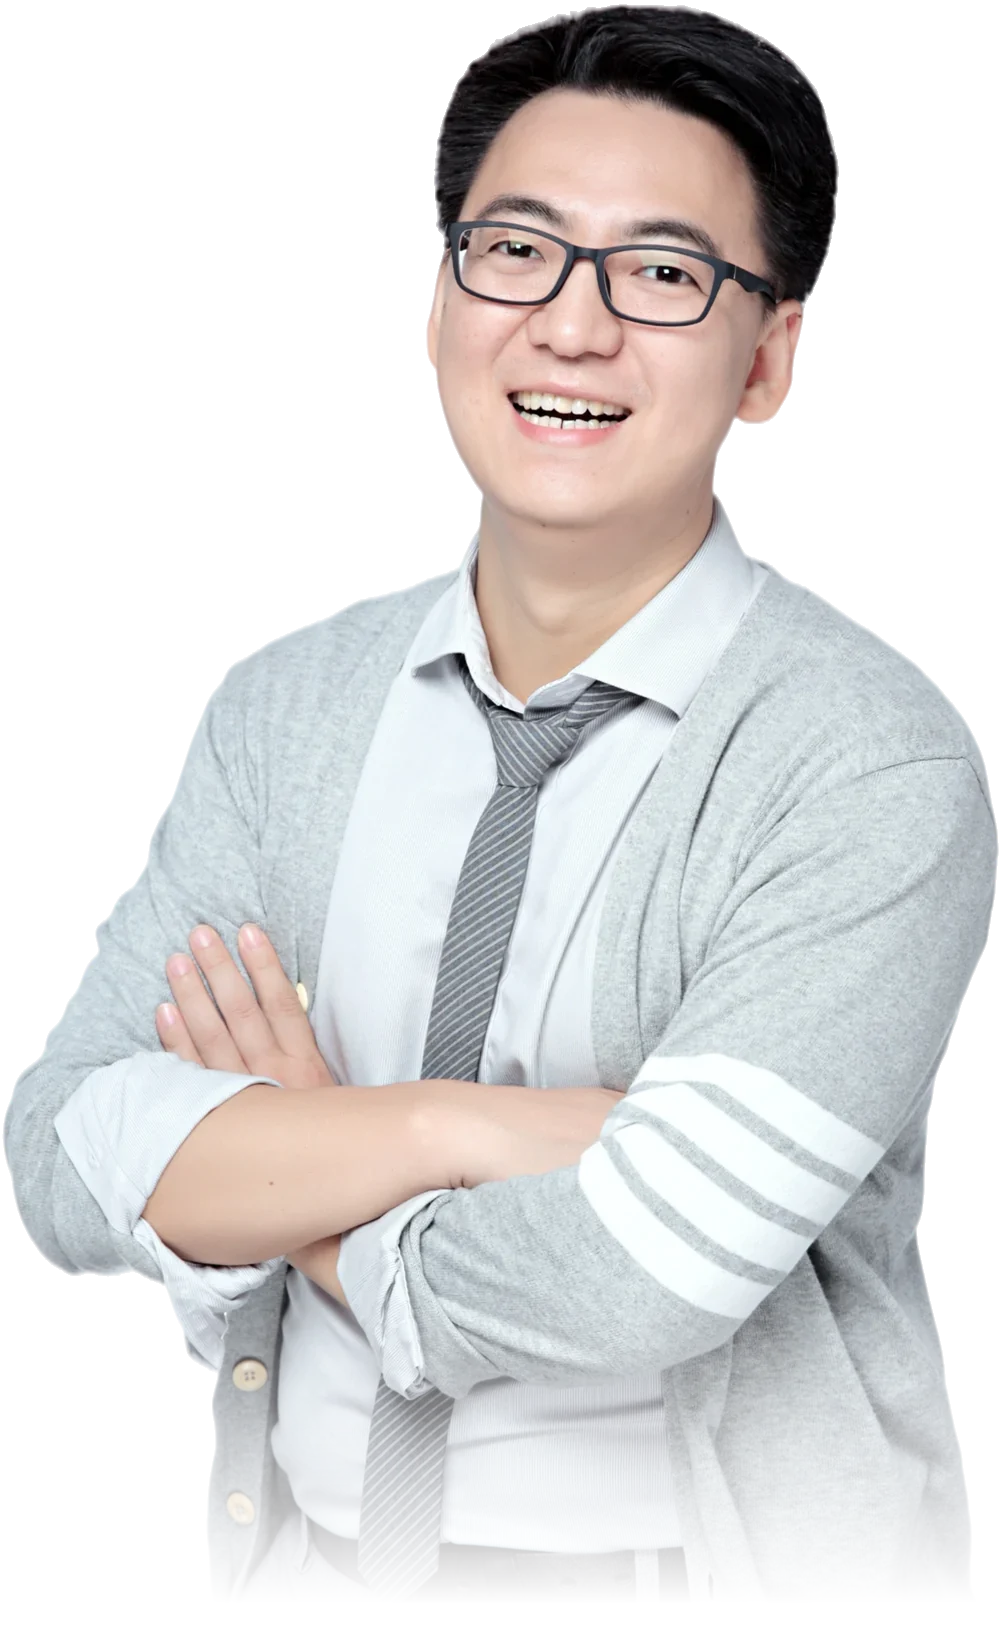
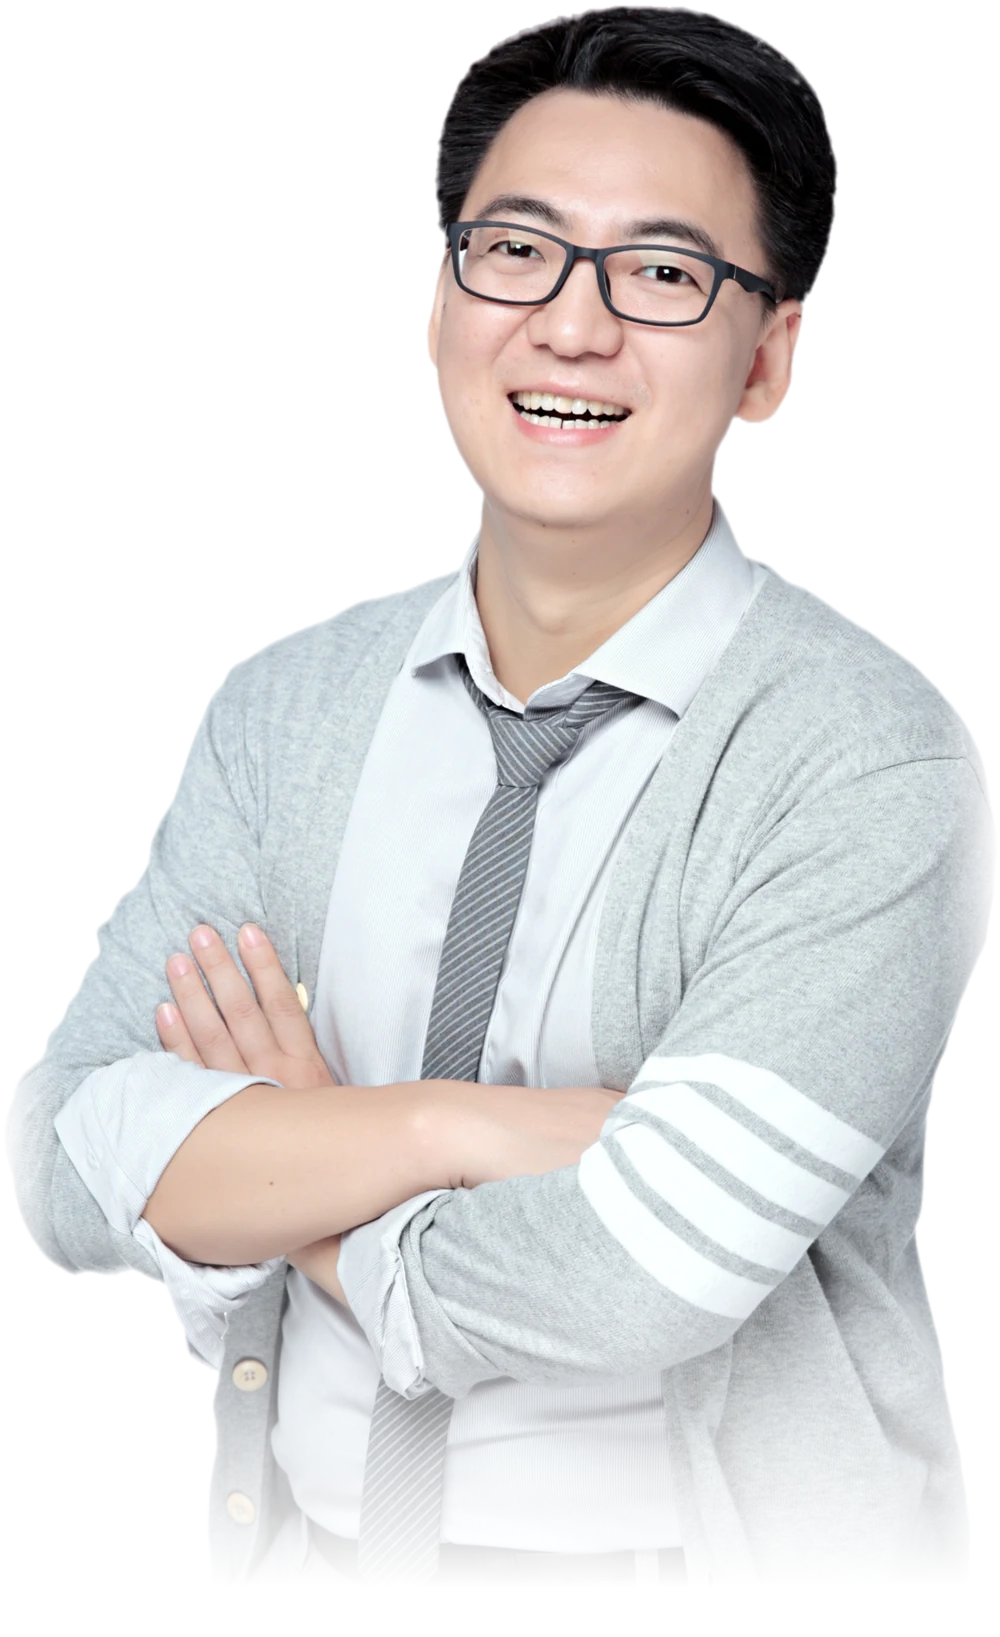
海峰老师主页：换上底部网址为 /lihaifeng 的新人生卡和名片；序一节放五本书（抠干净的封面、不写书几）；形象照重新抠图去白边；「从一面之缘到一起出书」改成 6 站时间线（南京见面会、出品人闭门会、DISC 讲师班、2026.5 方案班、2026.10 方案班与新书发布会、2026.10 金雨麒峰会）
Claude-Session: https://claude.ai/code/session_01BfepyGSHVDQz4j4958TxbY

diff --git a/v2/lihaifeng/index.html b/v2/lihaifeng/index.html
@@ -104,13 +104,14 @@ section{padding:96px 0}
 
 /* ===== 序 ===== */
 .xu{background:linear-gradient(180deg,var(--paper),var(--cream))}
-.shelf5{display:flex;gap:18px;margin-top:40px;align-items:flex-end;flex-wrap:wrap}
-.bk{width:118px;text-align:left;position:relative;transition:transform .35s var(--ease)}
-.bk img{width:100%;border-radius:3px 6px 6px 3px;box-shadow:0 10px 24px rgba(40,30,15,.25);transition:box-shadow .3s}
+.shelf5{display:flex;gap:clamp(10px,2vw,22px);margin-top:40px;align-items:flex-end;flex-wrap:wrap}
+.bk{width:clamp(96px,15vw,128px);text-align:left;position:relative;transition:transform .35s var(--ease)}
+.bk img{width:100%;filter:drop-shadow(0 12px 16px rgba(40,30,15,.28));transition:filter .3s}
 .bk span{display:block;font-size:12.5px;color:var(--mute);margin-top:10px;line-height:1.5}
 .bk span b{display:block;color:var(--txt);font-weight:700}
 .bk[aria-selected=true]{transform:translateY(-14px)}
-.bk[aria-selected=true] img{box-shadow:0 18px 34px rgba(40,30,15,.35),0 0 0 3px var(--gold)}
+.bk[aria-selected=true] img{filter:drop-shadow(0 18px 22px rgba(40,30,15,.38)) drop-shadow(0 0 3px var(--gold))}
+.bk[aria-selected=true] span{color:var(--txt);font-weight:700}
 .page{margin-top:36px;background:#FFFDF8;border:1px solid var(--line);border-radius:6px;box-shadow:0 30px 60px -30px rgba(60,40,10,.35);padding:56px clamp(22px,6vw,72px) 48px;position:relative}
 .page:before{content:"";position:absolute;left:0;top:0;bottom:0;width:8px;background:linear-gradient(90deg,rgba(0,0,0,.06),transparent)}
 .page .tl{display:flex;justify-content:space-between;align-items:baseline;gap:12px;flex-wrap:wrap;border-bottom:1px solid var(--line);padding-bottom:16px}
@@ -150,6 +151,14 @@ section{padding:96px 0}
 .pol small{display:block;color:var(--mute);font-size:13px;line-height:1.6;margin-top:4px}
 @media(max-width:860px){.with .g{grid-template-columns:1fr 1fr;gap:18px}}
 
+.tl6{list-style:none;display:grid;grid-template-columns:repeat(3,1fr);gap:46px 30px;margin-top:48px;position:relative}
+.tli{position:relative;padding-top:34px}
+.tli:before{content:"";position:absolute;left:-30px;right:0;top:9px;height:2px;background:linear-gradient(90deg,rgba(193,146,63,.15),var(--gold),rgba(193,146,63,.15))}
+.tli .dot{position:absolute;left:0;top:3px;width:14px;height:14px;border-radius:50%;background:var(--gold);box-shadow:0 0 0 5px rgba(193,146,63,.2)}
+.tli time{position:absolute;left:22px;top:0;font:700 14px/20px var(--serif);color:var(--gold);letter-spacing:.06em;background:var(--paper);padding:0 10px 0 6px}
+.tli .pol{margin-top:6px}
+.tli .pol img{aspect-ratio:4/3}
+@media(max-width:860px){.tl6{grid-template-columns:1fr;gap:30px;padding-left:26px}.tl6:before{content:"";position:absolute;left:6px;top:8px;bottom:0;width:2px;background:linear-gradient(var(--gold),rgba(193,146,63,.15))}.tli{padding-top:28px}.tli:before{display:none}.tli .dot{left:-26px}.tli time{left:0}}
 /* ===== 原话 ===== */
 .words{background:var(--ink);color:var(--paper);overflow:hidden}
 .words .g{margin-top:40px;columns:3 260px;column-gap:20px}
@@ -264,7 +273,7 @@ footer .you{display:inline-block;margin-top:6px;color:var(--gold2);text-decorati
     </div>
     <div class="stage">
       <figure class="rw" id="bwall"><img src="bookwall100.jpg?v=20261119c" alt="李海峰老师出品的书墙：已出品出版 100 本实体书" width="2000" height="1379"></figure>
-      <div class="por"><img src="portrait-fade.webp" alt="李海峰老师形象照" width="1000" height="1637"></div>
+      <div class="por"><img src="portrait-fade.webp?v=20261120" alt="李海峰老师形象照" width="1000" height="1637"></div>
       <p class="note">他出品出版的 100 本实体书 · 边玩边赚就在最下面一排</p>
     </div>
   </div>
@@ -291,10 +300,11 @@ footer .you{display:inline-block;margin-top:6px;color:var(--gold2);text-decorati
     <h2 class="rv">每一本，<em>他都先写一页</em></h2>
     <p class="lead rv">边玩边赚书系，他和千百合一起担任出品人。每一本书的第一页，是他写的序。点一本书，读那一篇。</p>
     <div class="shelf5 rv" role="tablist" aria-label="选择一本书">
-      <button class="bk" role="tab" aria-selected="true" data-x="x1"><img src="../img/cover1.webp" alt="边玩边赚 1 封面"><span><b>书 1</b>AI 时代的自由人生</span></button>
-      <button class="bk" role="tab" aria-selected="false" data-x="x2"><img src="../img/cover2.webp" alt="边玩边赚 2 封面"><span><b>书 2</b>人人都能做 AI 智能体</span></button>
-      <button class="bk" role="tab" aria-selected="false" data-x="x3"><img src="../img/cover3.webp" alt="边玩边赚 3 封面"><span><b>书 3</b>AI 时代的财富思维</span></button>
-      <button class="bk" role="tab" aria-selected="false" data-x="x4"><img src="../img/cover4.webp" alt="边玩边赚 4 封面"><span><b>书 4</b>AI 时代的个人品牌</span></button>
+      <button class="bk" role="tab" aria-selected="true" data-x="x1"><img src="c1.webp?v=20261120" alt="《边玩边赚：AI 时代的自由人生》封面"><span>AI 时代的自由人生</span></button>
+      <button class="bk" role="tab" aria-selected="false" data-x="x2"><img src="c2.webp?v=20261120" alt="《边玩边赚：人人都能做 AI 智能体》封面"><span>人人都能做 AI 智能体</span></button>
+      <button class="bk" role="tab" aria-selected="false" data-x="x3"><img src="c3.webp?v=20261120" alt="《边玩边赚：AI 时代的财富思维》封面"><span>AI 时代的财富思维</span></button>
+      <button class="bk" role="tab" aria-selected="false" data-x="x4"><img src="c4.webp?v=20261120" alt="《边玩边赚：AI 时代的个人品牌》封面"><span>AI 时代的个人品牌</span></button>
+      <button class="bk" role="tab" aria-selected="false" data-x="x5"><img src="c5.webp?v=20261120" alt="《边玩边赚：走遍世界，活成自己》封面"><span>走遍世界，活成自己</span></button>
     </div>
 
     <article class="page rv" id="x1">
@@ -390,6 +400,13 @@ footer .you{display:inline-block;margin-top:6px;color:var(--gold2);text-decorati
       </div>
       <div class="acts"><button class="tog">读完整篇 ↓</button></div>
     </article>
+
+    <article class="page" id="x5" hidden>
+      <div class="tl"><span>边玩边赚 · 走遍世界，活成自己</span><em>北京日报出版社 · 出版中</em></div>
+      <h3>世界是一本书，这次你来写。</h3>
+      <div class="body"><p>这一本正在出版的路上，36 位作者从世界各地写回来。书到了，他的序也会放在这里。</p></div>
+    </article>
+
   </div>
 </section>
 
@@ -411,12 +428,14 @@ footer .you{display:inline-block;margin-top:6px;color:var(--gold2);text-decorati
   <div class="w">
     <div class="kick rv">和边玩边赚在一起的他</div>
     <h2 class="rv">从一面之缘，<em>到一起出书</em></h2>
-    <div class="g">
-      <figure class="pol rv" style="--r:-3deg"><img src="with-nj.jpg" alt="2024 年 7 月，南京，千百合和海峰老师在友者生存海峰见面会合影" loading="lazy" style="object-position:50% 30%"><b>2024 · 7 · 南京</b><small>友者生存海峰见面会南京站，千百合带着鲜花饼来见他</small></figure>
-      <figure class="pol rv" style="--r:2deg"><img src="with-flower.jpg" alt="2024 年 12 月，千百合和海峰老师各捧一束花合影" loading="lazy" style="object-position:50% 40%"><b>2024 · 12</b><small>一人一束花，坐在一起笑</small></figure>
-      <figure class="pol rv" style="--r:-2deg"><img src="with-gz.jpg" alt="2025 年 1 月，广州，DISC+授权讲师班第 120 期，千百合和海峰老师合影" loading="lazy" style="object-position:50% 30%"><b>2025 · 1 · 广州</b><small>DISC+ 授权讲师班第 120 期</small></figure>
-      <figure class="pol rv" style="--r:3deg"><img src="stage.jpg" alt="2026 年 5 月，广州，海峰老师在联合出书实操方案班讲课" loading="lazy" style="object-position:50% 30%"><b>2026 · 5 · 广州</b><small>联合出书实操方案班，他在台上</small></figure>
-    </div>
+    <ol class="tl6">
+      <li class="tli rv"><span class="dot"></span><time>2024 · 7 · 南京</time><figure class="pol" style="--r:-3deg"><img src="with-nj.jpg?v=20261120" alt="2024 · 7 · 南京，一面之缘" loading="lazy" style="object-position:50% 30%"><b>一面之缘</b><small>友者生存海峰见面会南京站，千百合带着鲜花饼来见他</small></figure></li>
+      <li class="tli rv"><span class="dot"></span><time>2024 · 12</time><figure class="pol" style="--r:2deg"><img src="with-flower.jpg?v=20261120" alt="2024 · 12，出品人闭门会" loading="lazy" style="object-position:50% 40%"><b>出品人闭门会</b><small>千百合从大洋彼岸飞过去，第一次成为出品人</small></figure></li>
+      <li class="tli rv"><span class="dot"></span><time>2025 · 1 · 广州</time><figure class="pol" style="--r:-2deg"><img src="with-gz.jpg?v=20261120" alt="2025 · 1 · 广州，DISC+ 授权讲师班" loading="lazy" style="object-position:50% 30%"><b>DISC+ 授权讲师班</b><small>第 120 期，一起上课的同学</small></figure></li>
+      <li class="tli rv"><span class="dot"></span><time>2026 · 5 · 广州</time><figure class="pol" style="--r:3deg"><img src="stage.jpg?v=20261120" alt="2026 · 5 · 广州，联合出书实操方案班" loading="lazy" style="object-position:50% 30%"><b>联合出书实操方案班</b><small>他在台上讲怎么把一群人组成一本书</small></figure></li>
+      <li class="tli rv"><span class="dot"></span><time>2026 · 10 · 广州</time><figure class="pol" style="--r:-2deg"><img src="t-oct-books.jpg?v=20261120" alt="2026 · 10 · 广州，方案班 · 全球新书发布会" loading="lazy" style="object-position:50% 35%"><b>方案班 · 全球新书发布会</b><small>四本书，抱在千百合怀里</small></figure></li>
+      <li class="tli rv"><span class="dot"></span><time>2026 · 10 · 上海</time><figure class="pol" style="--r:2deg"><img src="t-oct-yuqi.jpg?v=20261120" alt="2026 · 10 · 上海，金雨麒 AI-OPC 峰会" loading="lazy" style="object-position:50% 88%"><b>金雨麒 AI-OPC 峰会</b><small>千百合和金雨麒同台，边玩边赚走到更多人面前</small></figure></li>
+    </ol>
   </div>
 </section>
 
@@ -459,11 +478,11 @@ footer .you{display:inline-block;margin-top:6px;color:var(--gold2);text-decorati
     <div class="kick rv">带走一张他</div>
     <h2 class="rv">人生卡，和一张<em>名片</em></h2>
     <div class="g2">
-      <figure class="tk rv"><span class="tag">入场券 №书4-00</span><div class="in" data-big="card.jpg?v=20261119c"><img src="card.jpg?v=20261119c" alt="李海峰的人生卡：今天遇见谁，你怎么活，世界就怎么记住你" loading="lazy" width="1080" height="1920"></div><figcaption><b>人生卡</b>书四 · 序：先活，再被记住</figcaption></figure>
-      <figure class="tk rv" style="--r:3deg"><div class="in" data-big="intro.jpg?v=20261119c"><img src="intro.jpg?v=20261119c" alt="李海峰的个人名片：不做旁观者，勇做组局人" loading="lazy" width="1080" height="1920"></div><figcaption><b>个人名片</b>不做旁观者，勇做组局人</figcaption></figure>
+      <figure class="tk rv"><span class="tag">入场券 №书4-00</span><div class="in" data-big="card.jpg?v=20261120"><img src="card.jpg?v=20261120" alt="李海峰的人生卡：今天遇见谁，你怎么活，世界就怎么记住你" loading="lazy" width="1080" height="1920"></div><figcaption><b>人生卡</b>书四 · 序：先活，再被记住</figcaption></figure>
+      <figure class="tk rv" style="--r:3deg"><div class="in" data-big="intro.jpg?v=20261120"><img src="intro.jpg?v=20261120" alt="李海峰的个人名片：不做旁观者，勇做组局人" loading="lazy" width="1080" height="1920"></div><figcaption><b>个人名片</b>不做旁观者，勇做组局人</figcaption></figure>
     </div>
     <h3 class="rv" style="text-align:center">转给一个正在想“要不要出书”的朋友</h3>
-    <div class="dl rv" style="justify-content:center"><a href="card.jpg?v=20261119c" download="李海峰-人生卡.jpg">保存人生卡</a><a href="intro.jpg?v=20261119c" download="李海峰-个人名片.jpg">保存个人名片</a></div>
+    <div class="dl rv" style="justify-content:center"><a href="card.jpg?v=20261120" download="李海峰-人生卡.jpg">保存人生卡</a><a href="intro.jpg?v=20261120" download="李海峰-个人名片.jpg">保存个人名片</a></div>
   </div>
 </section>
 
